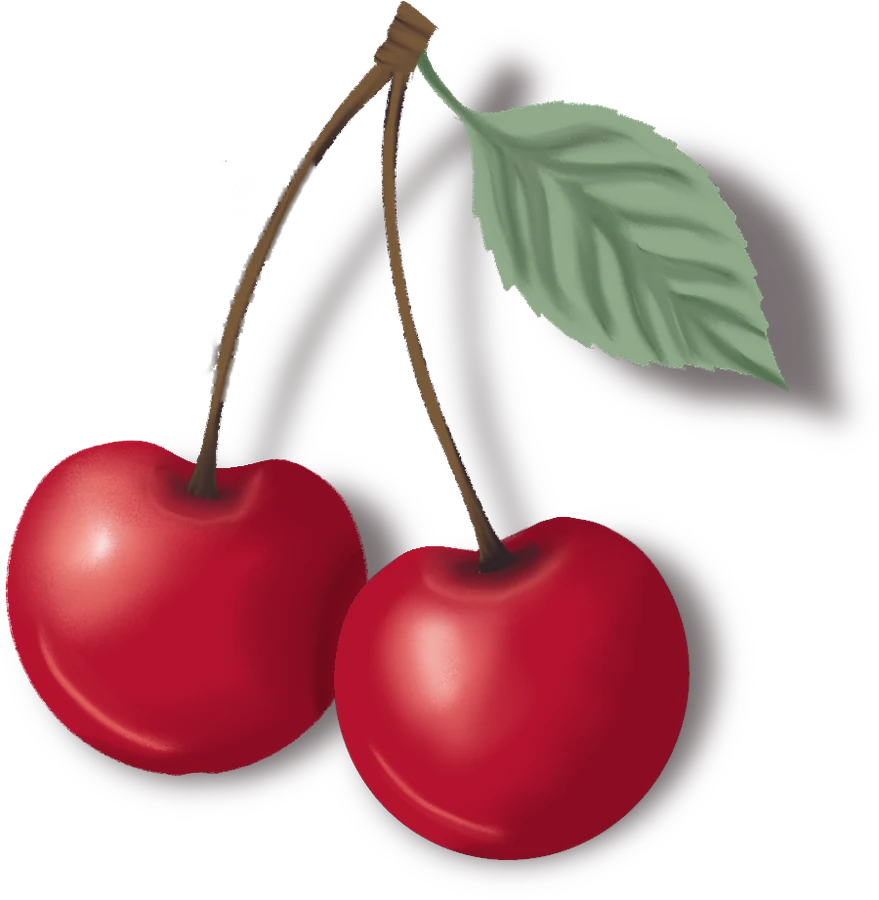
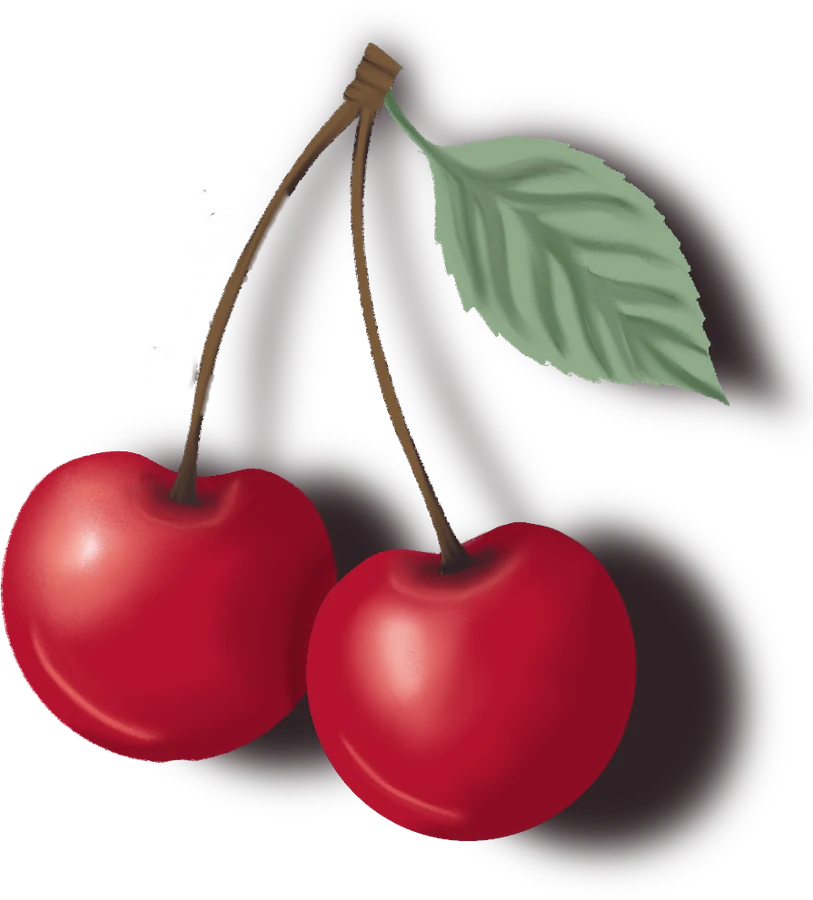
Page Ça mijote : cerises avec ombre portée vers le bas
Claude-Session: https://claude.ai/code/session_01QthmEZzomrVJiCgK4bGBd5

Changed region(s): [[0.0308, 0.0, 0.984, 0.9956], [0.0, 0.56, 0.0308, 0.7467], [0.0308, 0.5289, 0.0615, 0.56]]

diff --git a/index.html b/index.html
@@ -56,7 +56,7 @@ details p{text-align:left;margin-top:10px;font-size:.85rem}
   <div class="blob" style="width:320px;height:320px;background:var(--peche);bottom:5%;right:5%"></div>
   <div class="card">
     <!-- Remplace l'emoji par ton dessin : <img src="images/cerise.png" alt="" width="90"> -->
-    <img class="cherry" src="images/cerises-fanny.webp" alt="Deux cerises dessinées à la main par Fanny" width="150" height="165">
+    <img class="cherry" src="images/cerises-fanny.webp" alt="Deux cerises dessinées à la main par Fanny" width="150" height="166">
     <h1>Ça mijote…</h1>
     <span class="script"><span class="hw" style="--src:url('hw/02-un-site-tout-en-douceur-arrive.png');--r:7.086" aria-hidden="true"></span><span class="sr">un site tout en douceur arrive</span></span>
     <p><span class="brand">La Cerise sur le Site</span> crée des sites et des applis sur mesure pour les indépendant·es qui se lancent. Simplement, sans jargon et sans mauvaise surprise.</p>
